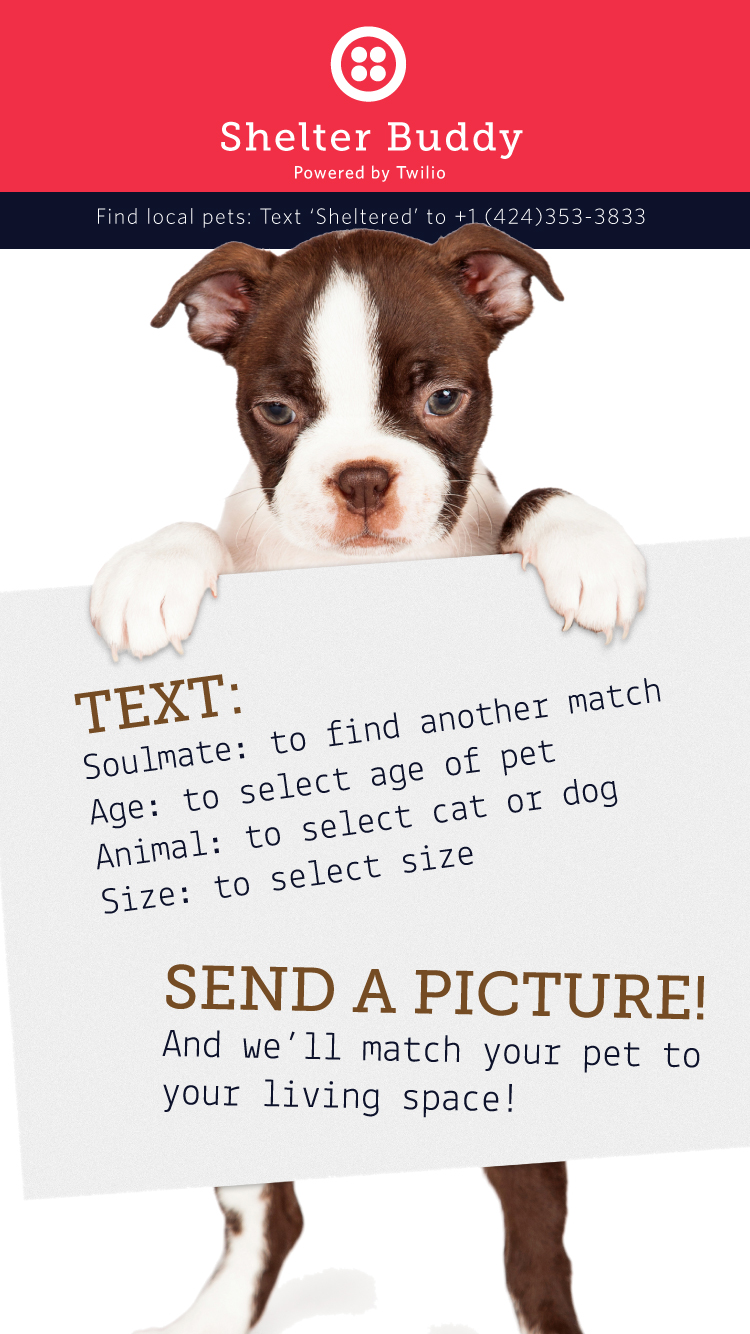
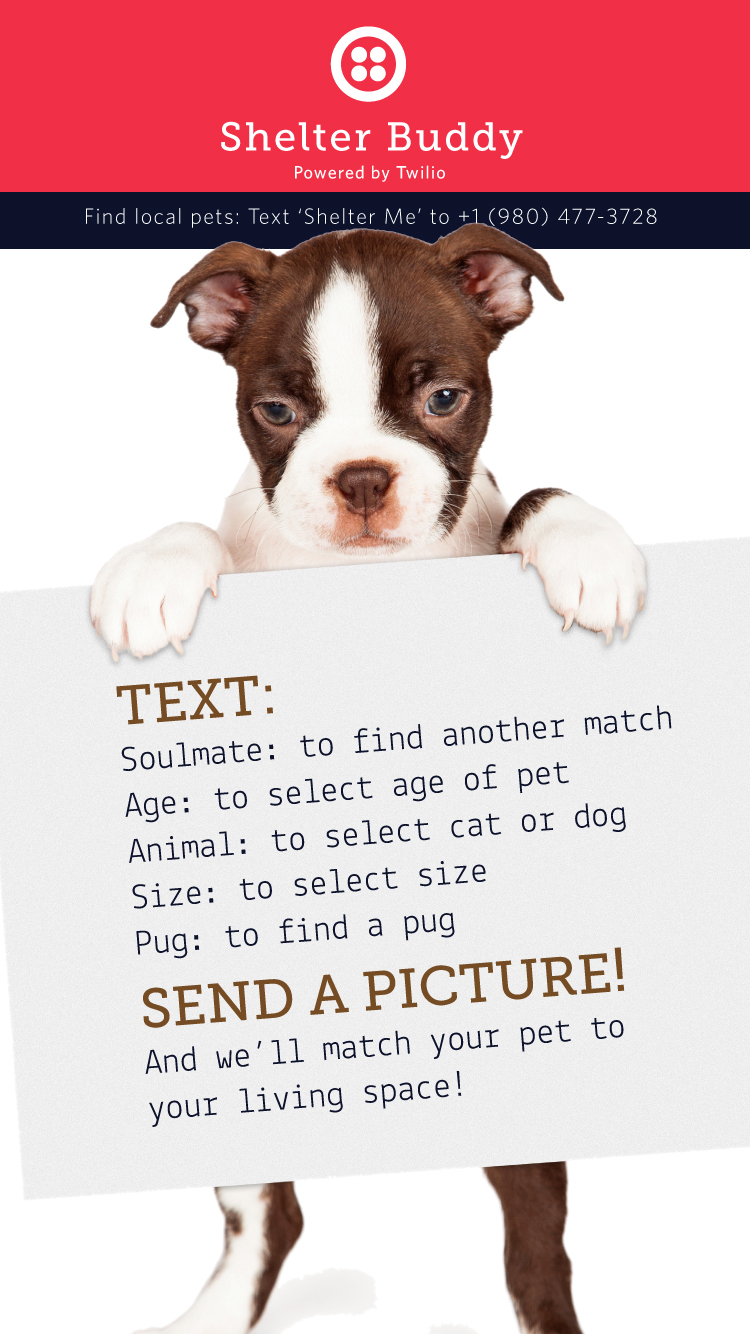
Update the number.

Changed region(s): [[0.092, 0.4918, 0.9507, 0.8298], [0.1227, 0.1537, 0.5827, 0.1844], [0.6133, 0.1537, 0.8587, 0.1844]]

diff --git a/public/index.html b/public/index.html
@@ -51,7 +51,7 @@
 						<h1> Shelter Buddy!</h1>
 						<!-- <p><a href="http://abcnews.go.com/GMA/video/text-text-app-sends-shakespearean-sonnets-phone-45472972" target="_blank"> as seen on Good Morning America! </a></p> -->
 						
-						<h5> Text <span> 1(424)353-3833 </span> to find a <b>shelter pet</b> ready to be rescued.</h5>
+						<h5> Text <span> 1(980)477-3728 </span> to find a <b>shelter pet</b> ready to be rescued.</h5>
 						
 					</div>
 				</div>
